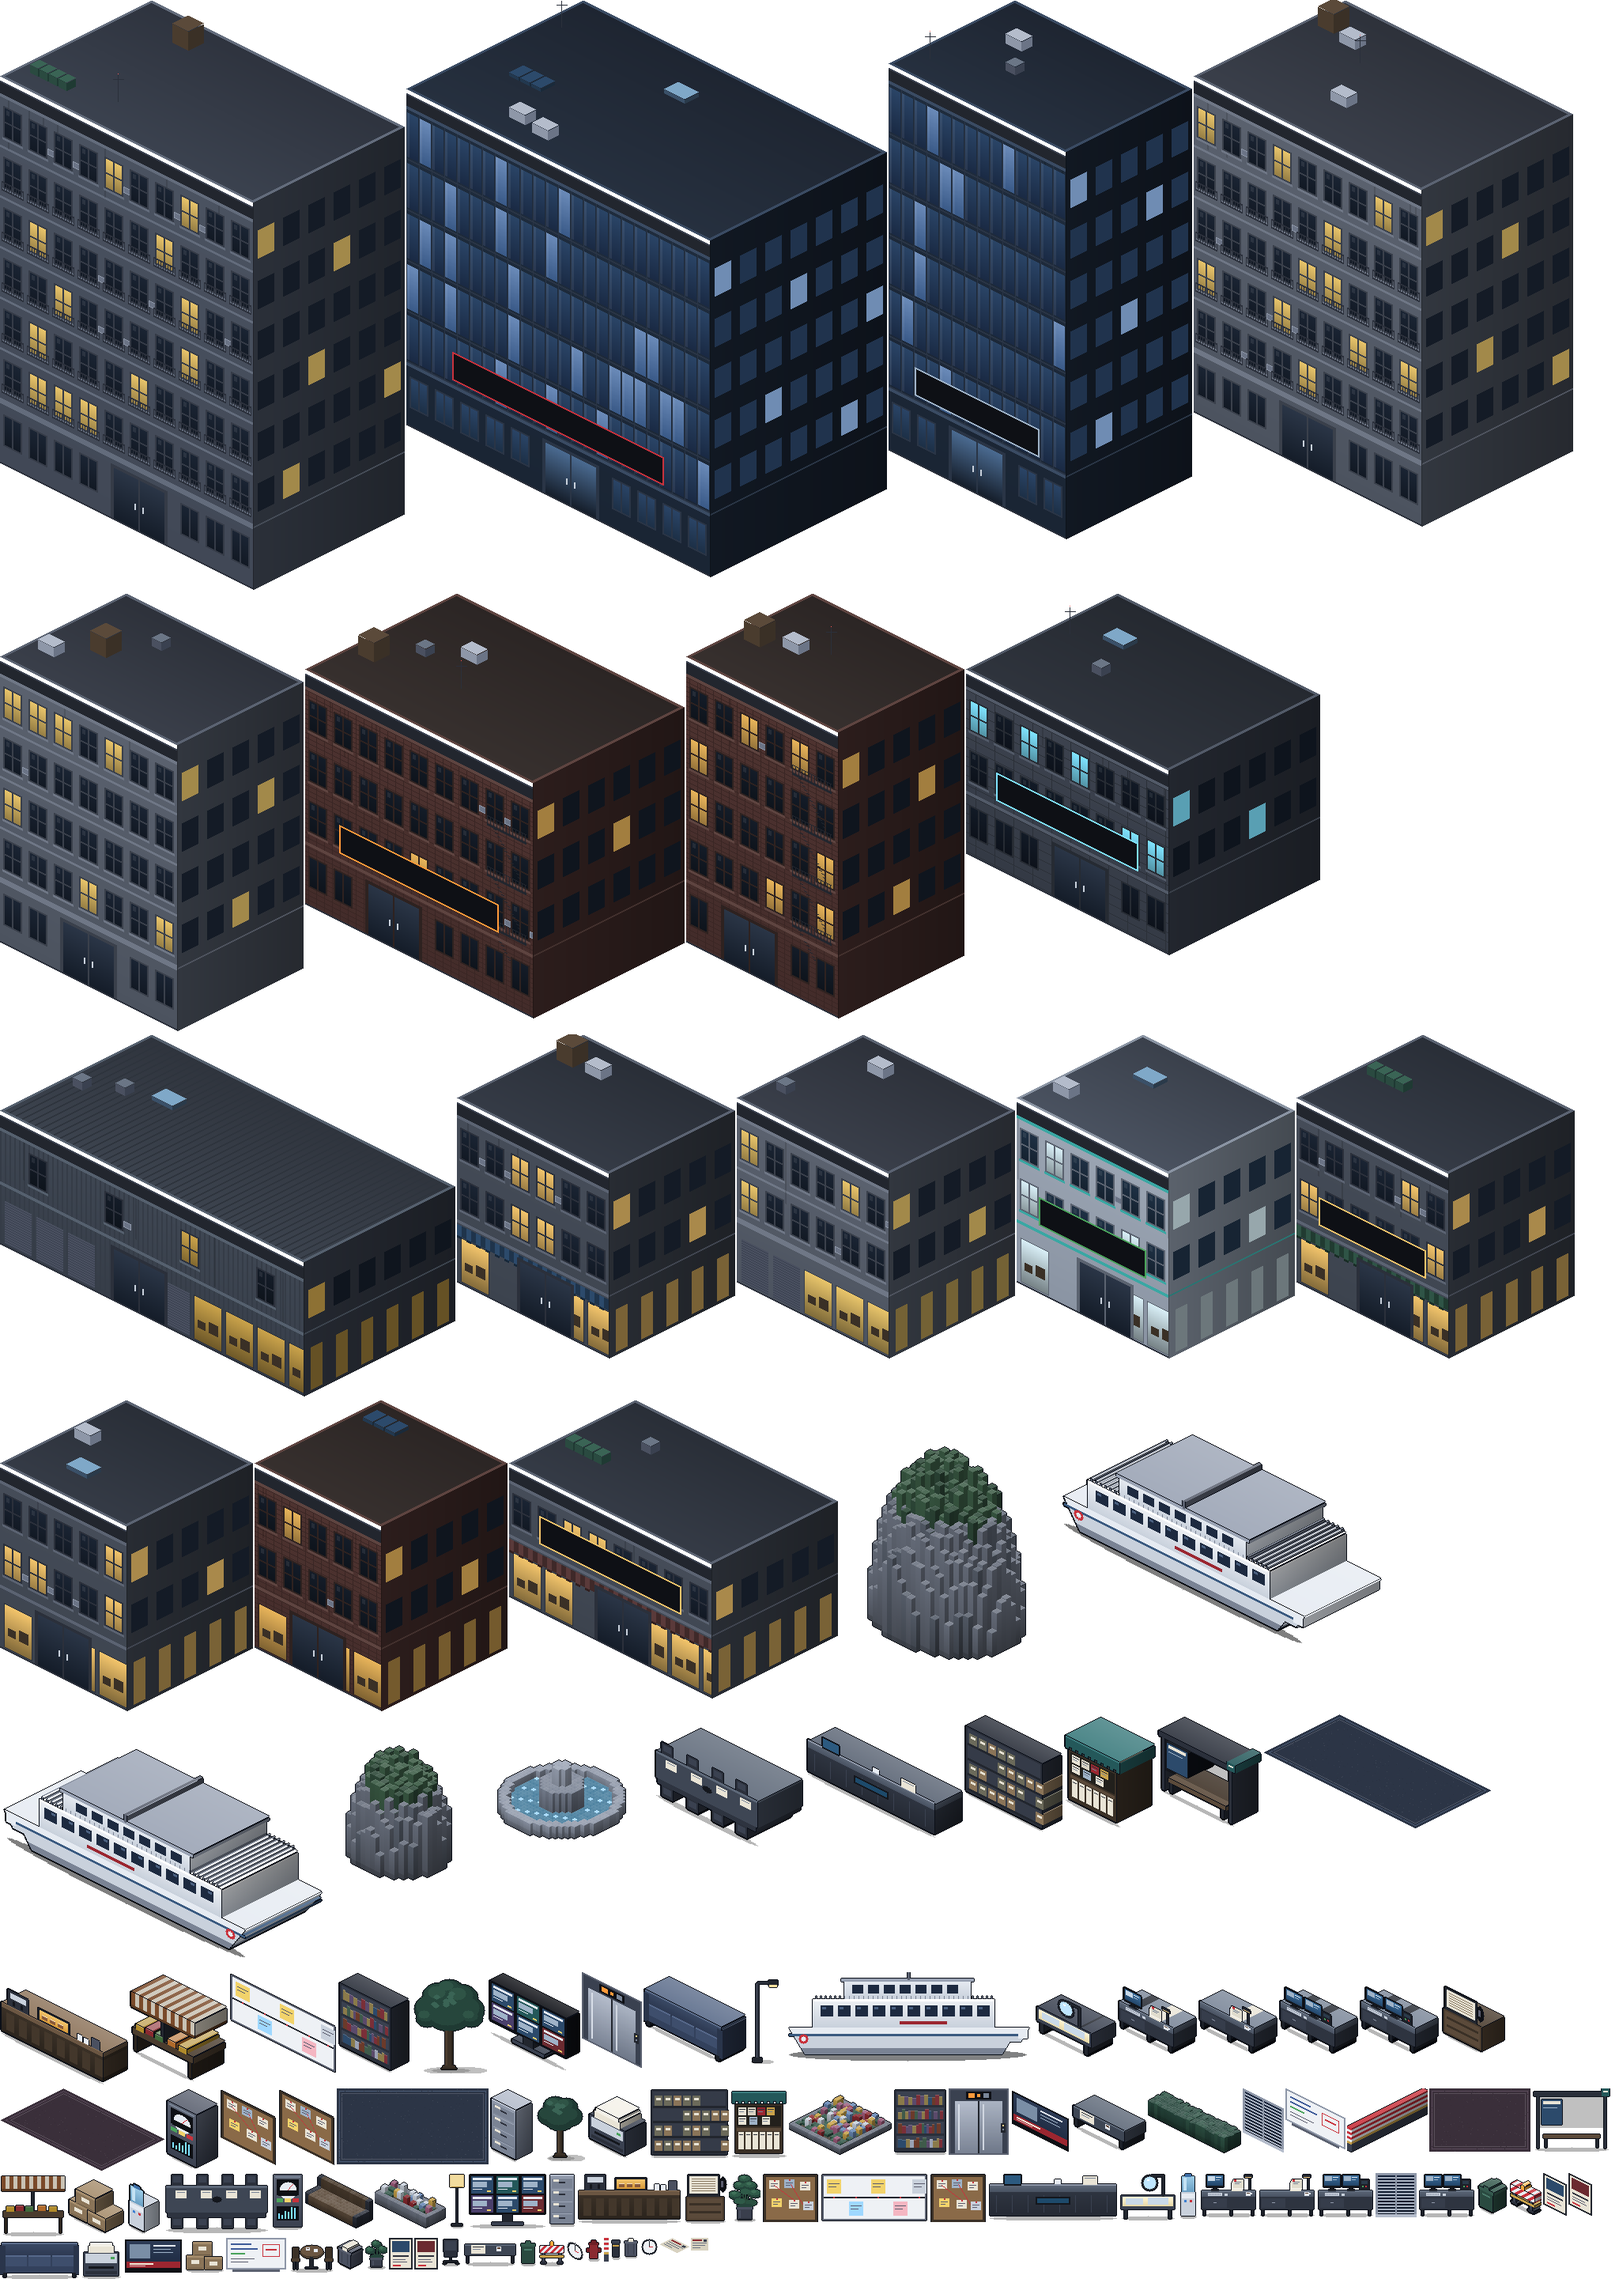
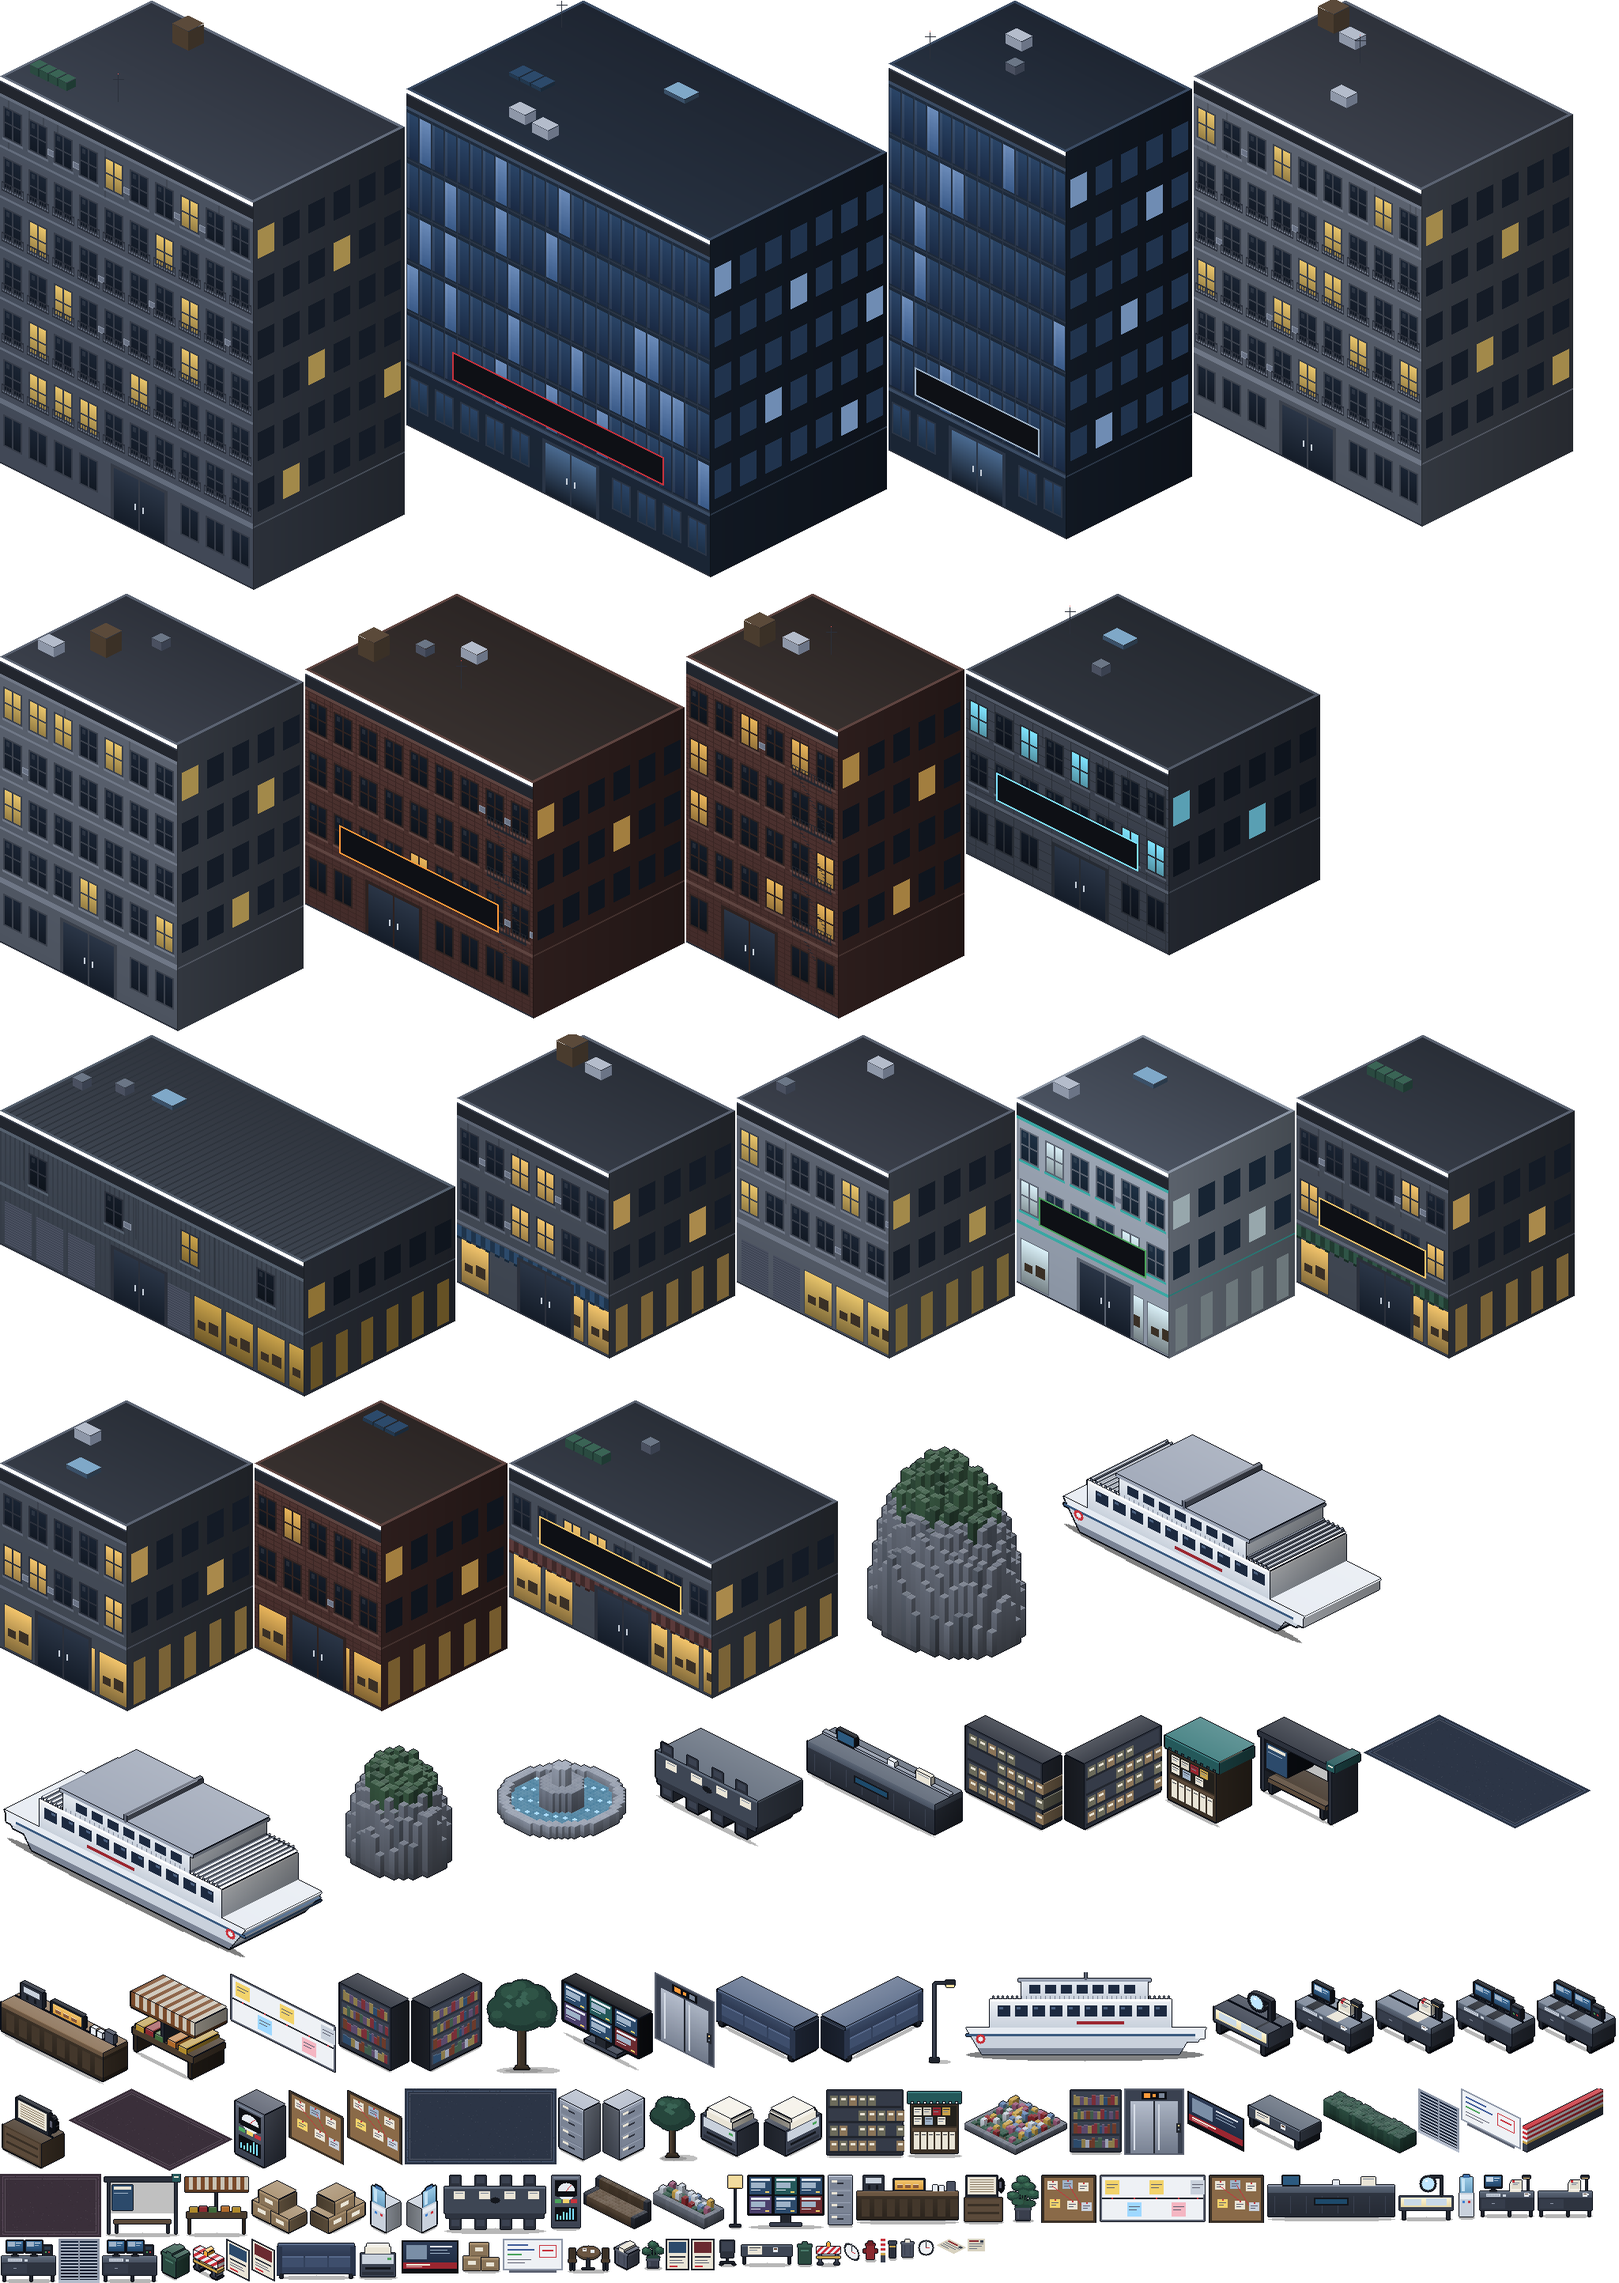
Desk items as separate 3D blocks on the desk top; east-facing variant for furniture on west walls

diff --git a/js/world.js b/js/world.js
@@ -640,13 +640,20 @@ export class WorldScene extends Phaser.Scene {
       const isoKey = `${o.name}@iso`, im2 = meta[isoKey];
       const makeWall = (x, y) => this.add.image(x - m.w * ox, y - (m.w * ox) / 2, 'props', isoKey).setOrigin(0, im2.h0 / im2.h);
       // khối isometric: <khóa>@iso (đồ vật, tàu; tàu quay ngược: @isoW) hoặc chính khóa (tòa nhà có meta.iso)
-      const isoName = mirror && meta[`${o.name}@isoW`] ? `${o.name}@isoW` : meta[`${o.name}@iso`]?.iso ? `${o.name}@iso` : m.iso ? o.name : null;
+      const east = propOf(o, 'face') === 'e' && meta[`${o.name}@isoE`];
+      const isoName = east ? `${o.name}@isoE` : mirror && meta[`${o.name}@isoW`] ? `${o.name}@isoW` : meta[`${o.name}@iso`]?.iso ? `${o.name}@iso` : m.iso ? o.name : null;
       const im = isoName ? meta[isoName] : null;
       let img, left, top, lights = m.lights;
       if (m.wall) {
         const parts = this.sliceOnWall(im2 ? makeWall : make, o.x, o.y, o.x - m.w * ox);
         img = parts[0]; this.propExtras.push(...parts.slice(1));
         left = img.x; top = img.y - img.height * img.originY; lights = [];
+      } else if (im?.iso.east) {
+        // quay mặt về đông: (o.x, o.y) = giữa mép trước (phía đông); góc bắc của mép trước ứng với mép phải ảnh
+        const q = iso.P(o.x, o.y - im.iso.fw / 2);
+        img = this.add.image(q.x, q.y, 'props', isoName).setOrigin(1, im.iso.ay / im.h);
+        img.setDepth(iso.depth(o.x - im.iso.d / 2, o.y));
+        left = q.x - im.w; top = q.y - im.iso.ay; lights = [];
       } else if (im) {
         const q = iso.P(o.x - im.iso.fw / 2, o.y);
         img = this.add.image(q.x, q.y, 'props', isoName).setOrigin(0, im.iso.ay / im.h);
@@ -663,7 +670,8 @@ export class WorldScene extends Phaser.Scene {
         left = img.x - m.w * ox; top = img.y - m.h;
       }
       if (bw && bh && !m.flat && !m.wall) {
-        const z = this.add.zone(o.x, o.y - bh / 2, bw, bh);
+        // chân đế: quay về đông thì đổi chiều (sâu theo x, dài theo y)
+        const z = east ? this.add.zone(o.x - bh / 2, o.y, bh, bw) : this.add.zone(o.x, o.y - bh / 2, bw, bh);
         this.propBodies.add(z);
       }
       (lights || []).forEach(([lx, ly, c, r, i]) => this.propLights.push([left + lx, top + ly, c, r, i]));
